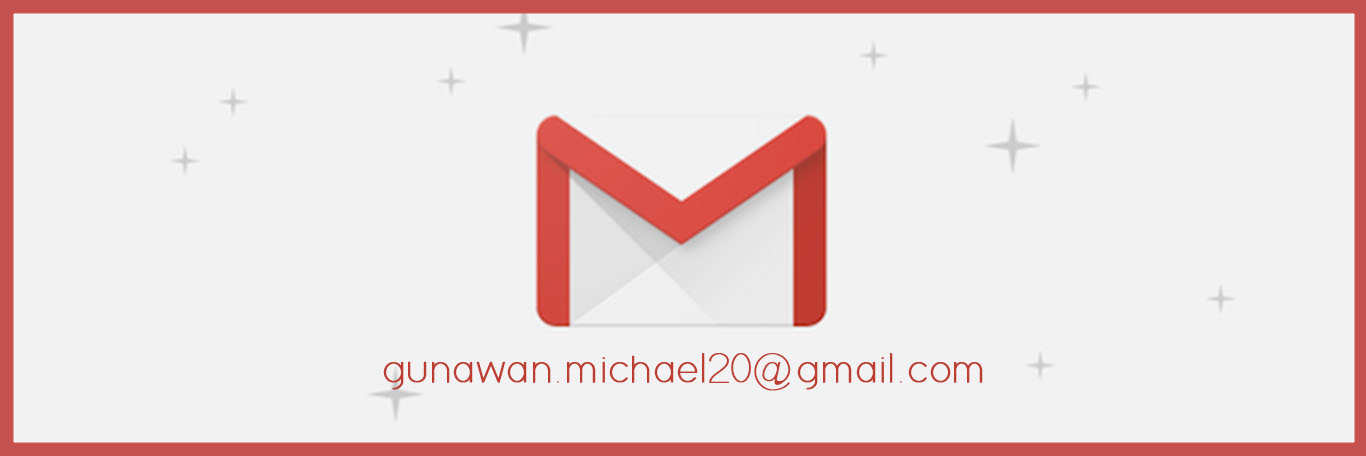
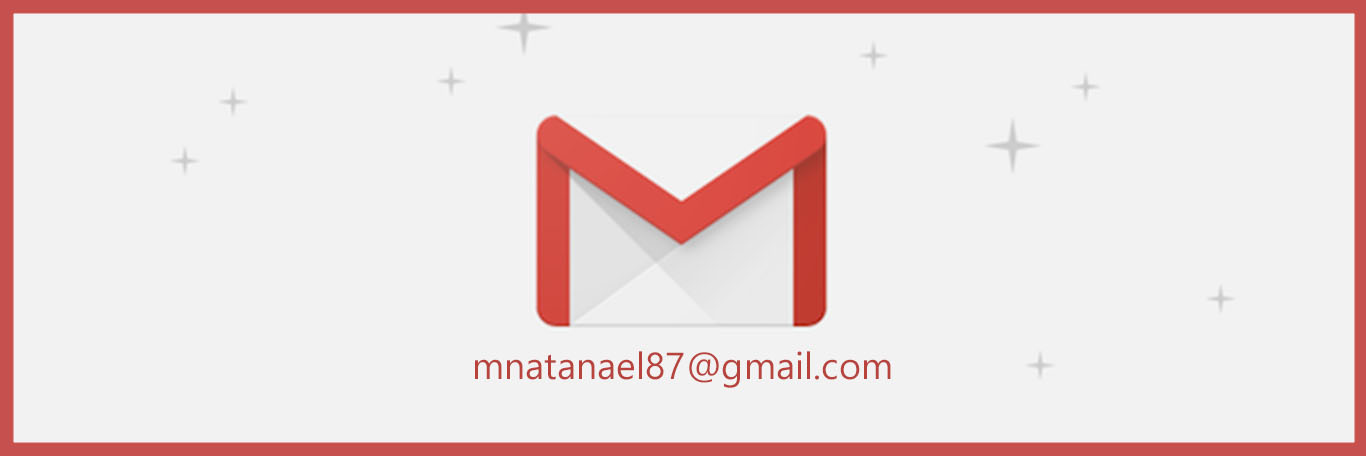
initial commit

Changed region(s): [[0.2767, 0.7675, 0.7379, 0.8904]]

diff --git a/contact.html b/contact.html
@@ -64,31 +64,31 @@
 	</div>
 
 	<div class="showcase no-padding">
-		<a href="https://github.com/mgportofolio" target="_blank">
+		<a href="https://github.com/michael2002porto" target="_blank">
 			<img class="full" src="./contact_files/github.jpg">
 		</a>
 	</div>
 
 	<div class="showcase no-padding">
-		<a href="https://mgportofolio.github.io/www.linkedin.com/in/michael-gunawan-mg211298" target="_blank">
-			<img class="full" src="./contact_files/linkedin.jpg">
+		<a href="http://line.me/ti/p/~natanaelmichael" target="_blank">
+			<img class="full" src="./contact_files/line.jpg">
 		</a>
 	</div>
 
 	<div class="showcase no-padding">
-		<a href="https://www.instagram.com/mgportofolio/" target="_blank">
+		<a href="https://www.instagram.com/natanaelmichael/" target="_blank">
 			<img class="full" src="./contact_files/ig.jpg">
 		</a>
 	</div>
 
 	<div class="showcase no-padding">
-		<a href="https://wa.me/082122493089" target="_blank">
+		<a href="https://api.whatsapp.com/send?phone=628974132561" target="_blank">
 			<img class="full" src="./contact_files/WA.jpg">
 		</a>
 	</div>
 
 	<div class="showcase no-padding">
-		<a href="mailto:gunawan.michael20@gmail.com" target="_blank">
+		<a href="https://mailto:mnatanael87@gmail.com" target="_blank">
 			<img class="full" src="./contact_files/gmail.jpg">
 		</a>
 	</div>
